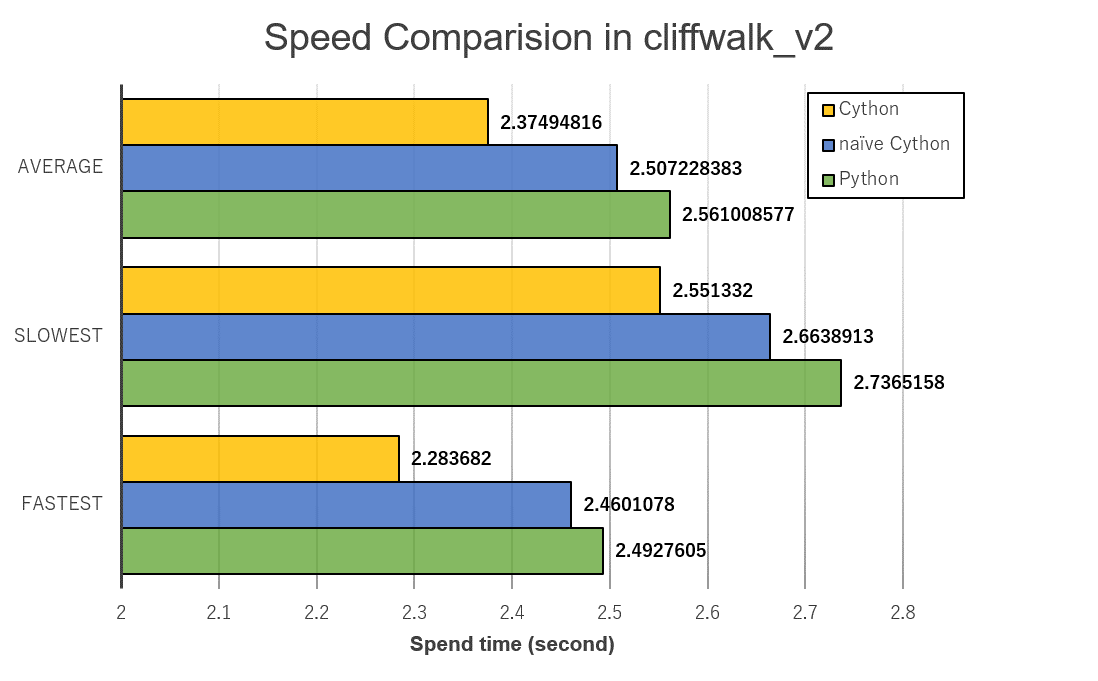
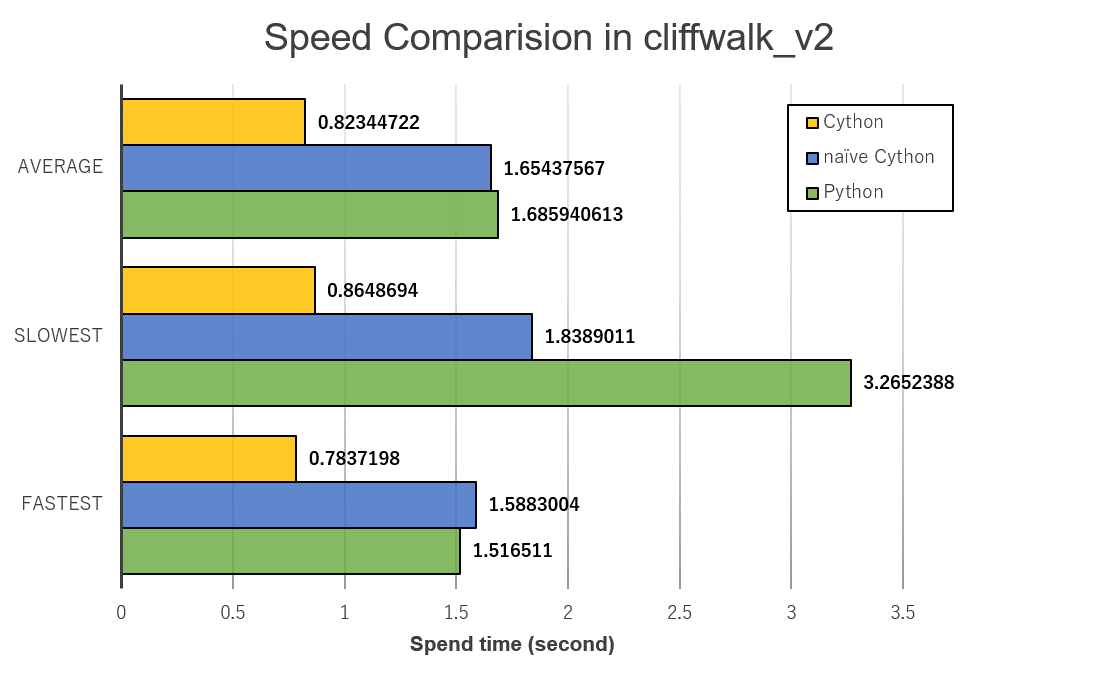
modify the invalid url
1. modify the invalid url
2. add sarsa into experiment makes it close to first day experiment.

diff --git a/_posts/2020-04-08-Cython Self-Study2.md b/_posts/2020-04-08-Cython Self-Study2.md
@@ -4,7 +4,7 @@ title: "Cython self-Learning (2)"
 date: 2020-04-08 21:00:00 +0900
 categories: [program, Python, Cython, self-learning]
 ---
-> If you haven't seen the previous [article](https://champdbg.github.io/program/python/self-learning/Cython-Self-Study/), it is better to read it before you read this article.
+> If you haven't seen the previous [article](https://champdbg.github.io/program/python/cython/self-learning/Cython-Self-Study/), it is better to read it before you read this article.
 
 In this article, I tried to prove my explaination, the reason why my Cython script did so bad, in last article and I found this words.
 
@@ -34,23 +34,23 @@ With these material, I start to modify my script and the new one is [[here](http
 With the refined script, I got the reasonable result.
 ``` 
 ========== pure python ==========
-Record 30 times of executing cliffwalk 10000 times
-100%|█████████████████████████████████| 30/30 [01:16<00:00,  2.56s/it]
-the fastest result is 2.49276049999753
-the slowest result is 2.7365158000029624
-the average result is 2.561008576666548
+Record 30 times of executing cliffwalk 3000 times
+100%|█████████████████████████████████| 30/30 [00:50<00:00,  1.69s/it]
+the fastest result is 1.5165109999943525
+the slowest result is 3.2652387999987695
+the average result is 1.6859406133327866
 ========== naive cython   ==========
-Record 30 times of executing cliffwalk 10000 times
-100%|█████████████████████████████████| 30/30 [01:15<00:00,  2.51s/it]
-the fastest result is 2.460107799997786
-the slowest result is 2.663891300006071
-the average result is 2.507228383331191
+Record 30 times of executing cliffwalk 3000 times
+100%|█████████████████████████████████| 30/30 [00:49<00:00,  1.65s/it]
+the fastest result is 1.5883004000061192
+the slowest result is 1.838901100010844
+the average result is 1.6543756700023853
 ========== cython   ==========
-Record 30 times of executing cliffwalk 10000 times
-100%|█████████████████████████████████| 30/30 [01:11<00:00,  2.38s/it]
-the fastest result is 2.28368199999386
-the slowest result is 2.5513320000027306
-the average result is 2.3749481600005917
+Record 30 times of executing cliffwalk 3000 times
+100%|█████████████████████████████████| 30/30 [00:24<00:00,  1.21it/s]
+the fastest result is 0.7837197999760974
+the slowest result is 0.8648693999857642
+the average result is 0.8234472199973728
 ```
 ![](/img/20200408_Speed Comparison cliffwalk_v2.png)
 
